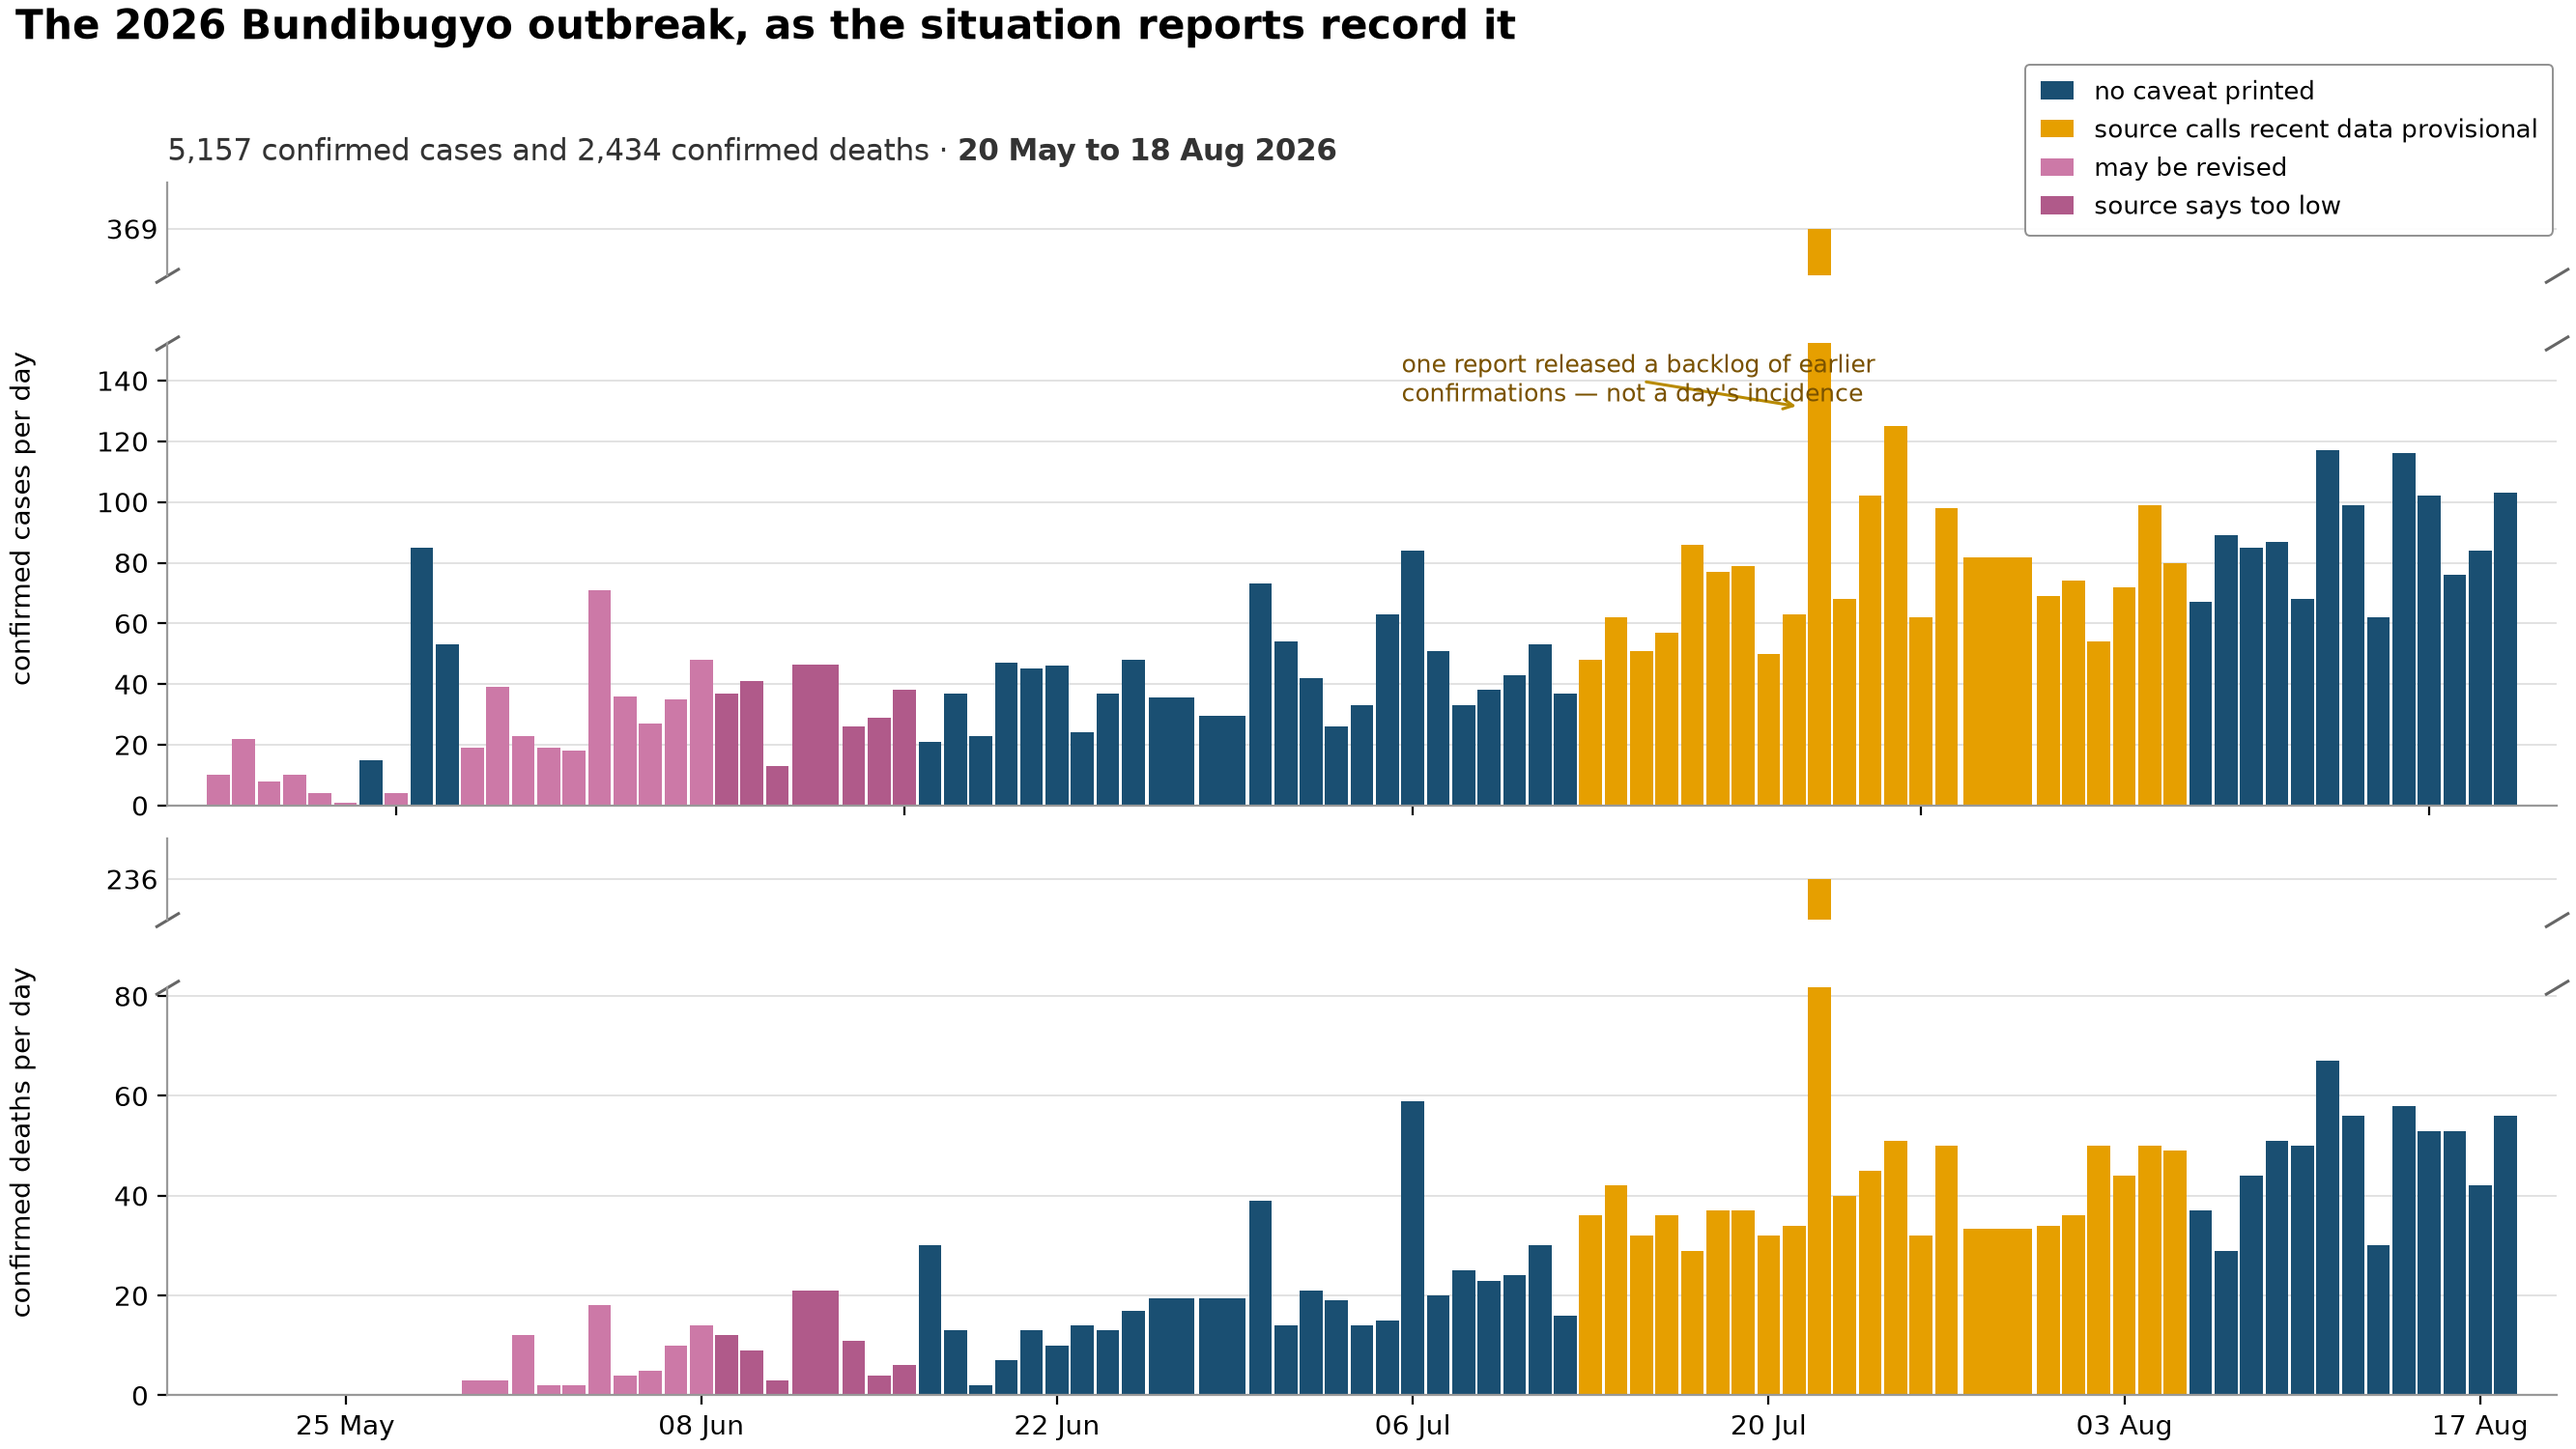
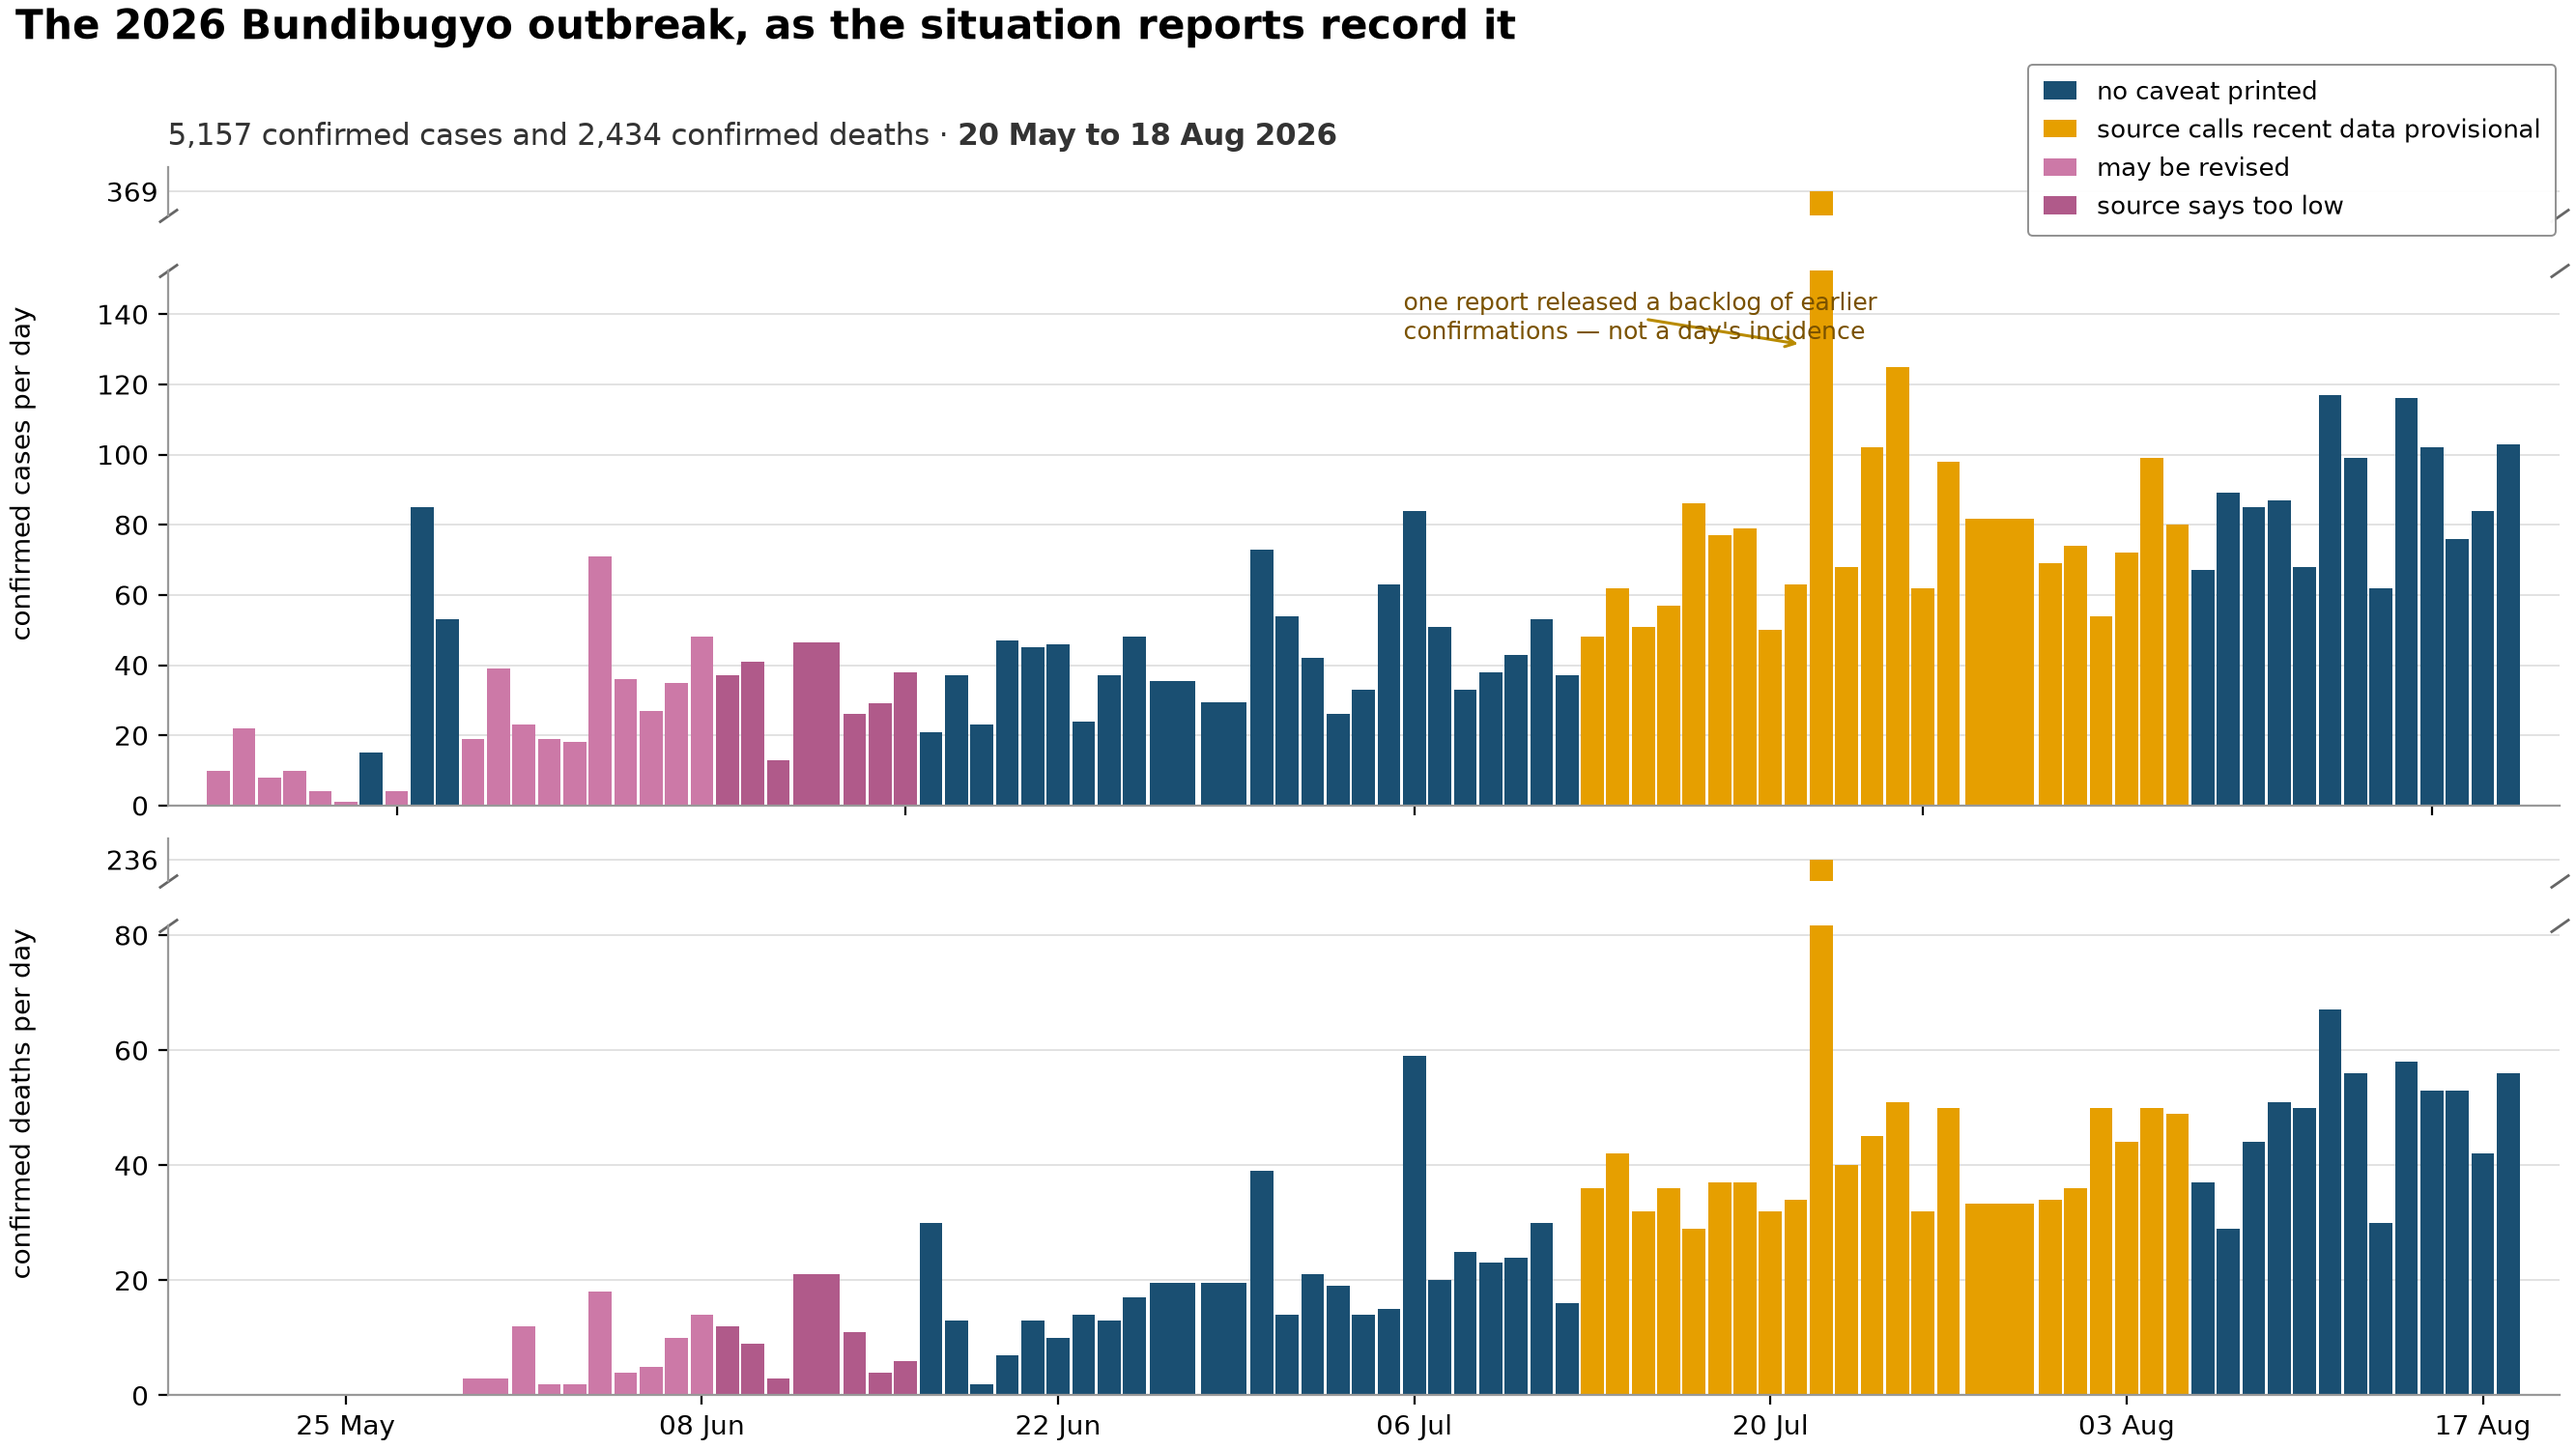
epi_curve: compress the broken-axis segments
The upper segment only ever needs to carry the top of one bar and its tick
value, so it was taking eleven times the height it needed. At 1:11 with the
join tightened it is a sliver, and the lower segment gets nearly the whole
panel -- so the curve is as readable as the truncated-bar version was while
the break stays visible.

Claude-Session: https://claude.ai/code/session_015tkmBJ2UNKTmshByKopqW2

diff --git a/scripts/plot_figures.py b/scripts/plot_figures.py
@@ -493,9 +493,9 @@ def draw_epi_curve(inputs: dict[str, Path], out: Path) -> None:
     deaths = pl.read_csv(inputs["deaths"], separator="\t", try_parse_dates=True)
 
     fig = plt.figure(figsize=(13.333, 7.5), constrained_layout=True)
-    outer = fig.add_gridspec(2, 1, height_ratios=[1.25, 1], hspace=0.10)
-    gc = outer[0].subgridspec(2, 1, height_ratios=[1, 5], hspace=0.06)
-    gd = outer[1].subgridspec(2, 1, height_ratios=[1, 5], hspace=0.06)
+    outer = fig.add_gridspec(2, 1, height_ratios=[1.25, 1], hspace=0.08)
+    gc = outer[0].subgridspec(2, 1, height_ratios=[1, 11], hspace=0.035)
+    gd = outer[1].subgridspec(2, 1, height_ratios=[1, 11], hspace=0.035)
     c_hi, c_lo = fig.add_subplot(gc[0]), fig.add_subplot(gc[1])
     d_hi, d_lo = fig.add_subplot(gd[0]), fig.add_subplot(gd[1])
 
@@ -521,7 +521,7 @@ def draw_epi_curve(inputs: dict[str, Path], out: Path) -> None:
             ax.spines["left"].set_color("#999999")
 
         lo.set_ylim(0, cut)
-        hi.set_ylim(peak * 0.94, peak * 1.06)
+        hi.set_ylim(peak * 0.965, peak * 1.035)
         hi.set_yticks([round(peak)])
         hi.tick_params(labelbottom=False, length=0)
         lo.spines["bottom"].set_color("#999999")
@@ -531,8 +531,9 @@ def draw_epi_curve(inputs: dict[str, Path], out: Path) -> None:
         lo.yaxis.set_label_coords(-0.055, 0.62)
 
         # diagonal break marks, drawn in axes coordinates on both edges
-        kw = dict(marker=[(-1, -0.6), (1, 0.6)], markersize=9, linestyle="none",
-                  color="#666666", mec="#666666", mew=1.1, clip_on=False)
+        kw = dict(marker=[(-1, -0.7), (1, 0.7)], markersize=7,
+                  linestyle="none", color="#666666", mec="#666666", mew=1.0,
+                  clip_on=False)
         hi.plot([0, 1], [0, 0], transform=hi.transAxes, **kw)
         lo.plot([0, 1], [1, 1], transform=lo.transAxes, **kw)
         return xs, ys, cut
